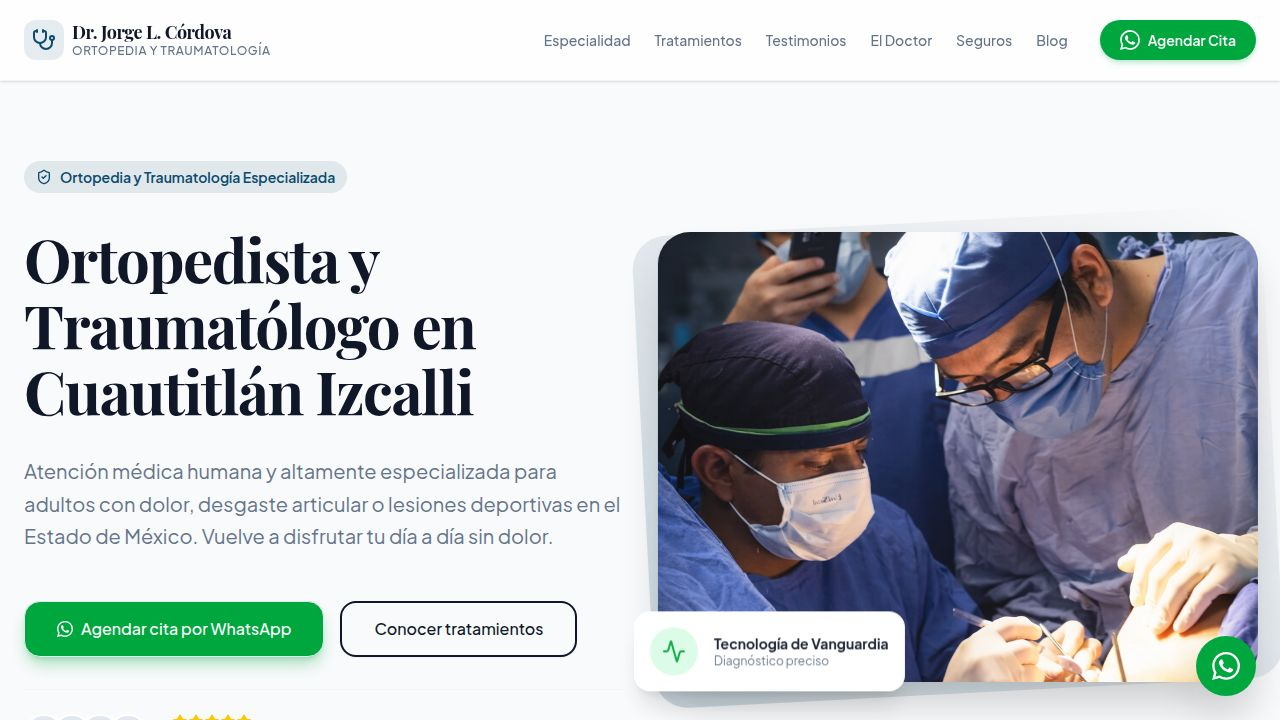
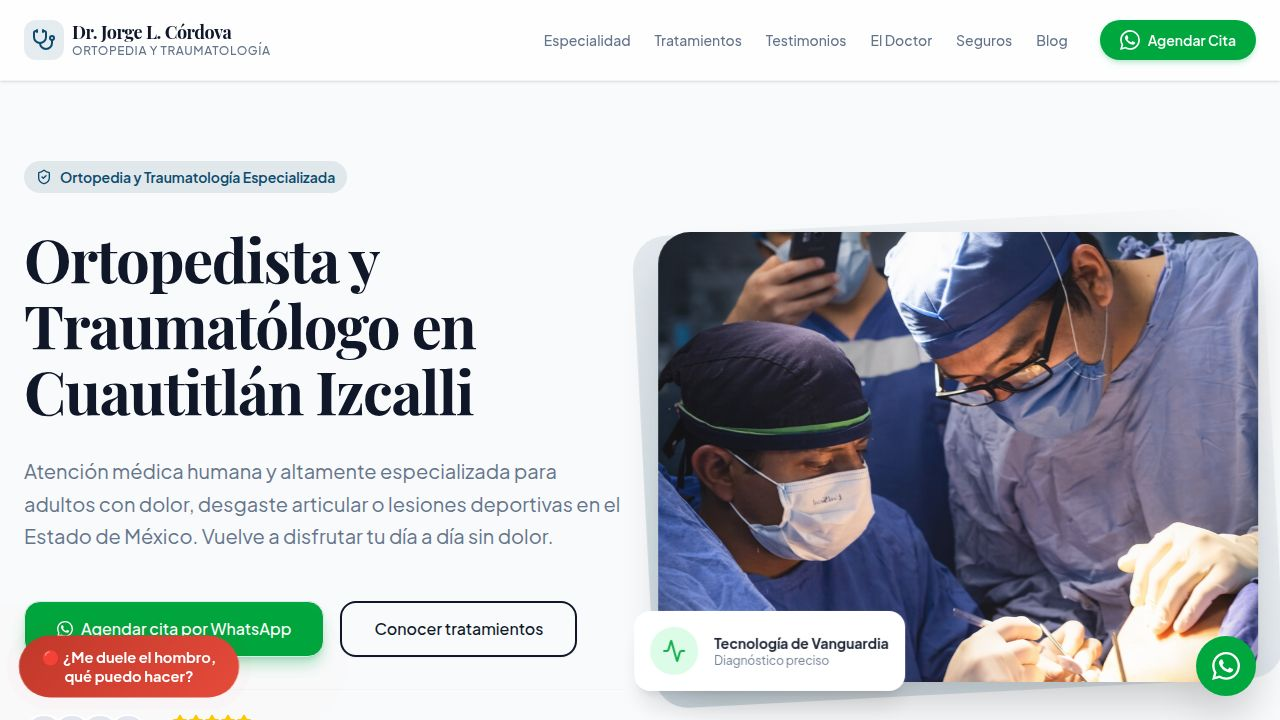
Add pulsing animation to the shoulder pain button
Update `App.tsx` to apply a linear gradient and a CSS animation `pulseHombro` to the floating shoulder pain button. Adds an outer ring effect using `animate-ping`. Updates `index.css` with the `@keyframes pulseHombro` definition.

Replit-Commit-Author: Agent
Replit-Commit-Session-Id: 318c9fd7-275b-472b-87e1-73e492cb9394
Replit-Commit-Checkpoint-Type: full_checkpoint
Replit-Commit-Event-Id: 4d1dd1fe-7a92-4cb2-b895-144de258350b
Replit-Commit-Screenshot-Url: https://storage.googleapis.com/screenshot-production-us-central1/608403ae-773a-4da5-a128-213319f89c43/318c9fd7-275b-472b-87e1-73e492cb9394/0lQ3kPn
Replit-Helium-Checkpoint-Created: true

Changed region(s): [[0.0, 0.8556, 0.1875, 0.9778], [0.5625, 0.8861, 0.6875, 0.9167]]

diff --git a/client/src/App.tsx b/client/src/App.tsx
@@ -73,11 +73,13 @@ function App() {
           <>
             <a
               href="/hombro-cuautitlan-izcalli"
-              className="fixed bottom-6 left-6 z-50 bg-blue-800 hover:bg-blue-900 text-white rounded-full px-5 py-3 shadow-2xl hover:scale-105 transition-all duration-300 text-sm font-semibold max-w-[200px] text-center leading-tight"
+              className="fixed bottom-6 left-6 z-50 text-white rounded-full px-5 py-3 shadow-2xl text-sm font-bold max-w-[210px] text-center leading-tight"
+              style={{ background: "linear-gradient(135deg, #c0392b, #e74c3c)", animation: "pulseHombro 2s ease-in-out infinite", boxShadow: "0 0 0 0 rgba(231,76,60,0.7)" }}
               data-testid="button-hombro-floating"
               aria-label="¿Me duele el hombro, qué puedo hacer?"
             >
-              ¿Me duele el hombro, qué puedo hacer?
+              <span className="absolute inset-0 rounded-full bg-red-500 opacity-30 animate-ping" style={{ animationDuration: "1.5s" }} />
+              <span className="relative">🔴 ¿Me duele el hombro, qué puedo hacer?</span>
             </a>
             <a
               href="https://wa.me/525514961386?text=Hola%20Dr.%20Jorge,%20me%20gustar%C3%ADa%20agendar%20una%20cita."

diff --git a/client/src/index.css b/client/src/index.css
@@ -102,3 +102,18 @@
     @apply tracking-tight;
   }
 }
+
+@keyframes pulseHombro {
+  0% {
+    box-shadow: 0 0 0 0 rgba(231, 76, 60, 0.7);
+    transform: scale(1);
+  }
+  50% {
+    box-shadow: 0 0 0 12px rgba(231, 76, 60, 0);
+    transform: scale(1.05);
+  }
+  100% {
+    box-shadow: 0 0 0 0 rgba(231, 76, 60, 0);
+    transform: scale(1);
+  }
+}
